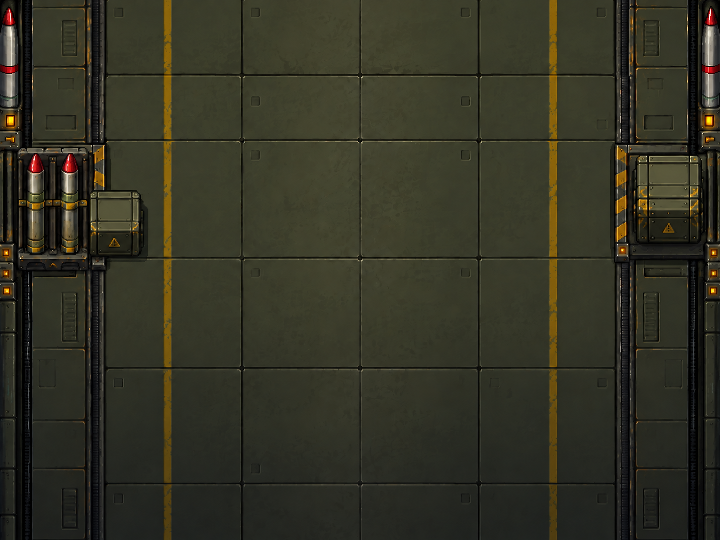
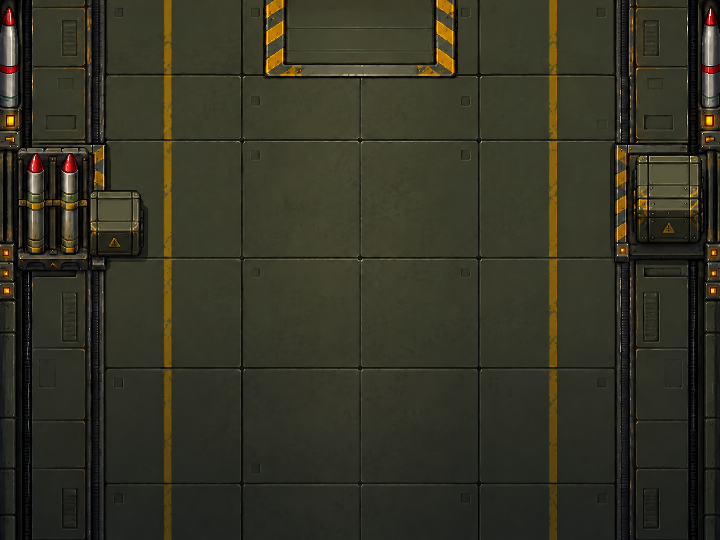
AVSR 수호 방패 하나씩 0.75초 리젠 · 레벨 3~7개 · 필살기 쿨 1분 30초 · 미사일 무대 방 밖 문틀 이음매

Changed region(s): [[0.3667, 0.0, 0.6417, 0.1481], [0.4889, 0.0296, 0.5194, 0.0593]]

diff --git a/Assets/Scripts/Module/InGame/BattleDirector.Cards.cs b/Assets/Scripts/Module/InGame/BattleDirector.Cards.cs
@@ -90,16 +90,11 @@ namespace Game.Module.InGame
         private const float ShieldOrbitRadiusMeters = 1.05f;
         private const float ShieldOrbitDegPerSecond = 210f;
         /// <summary>
-        /// 다 깨지고 나서 **한꺼번에** 돌아오기까지의 시간.
-        ///
-        /// 예전에는 하나씩 따로 8초를 셌다. 그러면 늘 한두 개만 도는 상태가 이어져
-        /// 「방패가 몇 개인지」가 화면에서 안 읽힌다. 셋이 다 깨져야 셋이 함께 온다 —
-        /// 있을 때는 온전하고 없을 때는 아예 없는 편이 판단하기 쉽다.
+        /// 깨진 방패 하나가 제자리로 돌아오기까지의 시간 — 하나씩 따로 센다.
+        /// 예전엔 다 깨진 뒤 6초에 한꺼번에 와서 비어 있는 시간이 너무 길었다
+        /// (PD 2026-10-30 「없어지면 0.5~1초 사이에 다시 리젠해서 늘 돌게」).
         /// </summary>
-        private const float ShieldRespawnSeconds = 6f;
-
-        /// <summary>다 깨진 뒤 함께 돌아오기까지 남은 시간. 0 이면 서 있다.</summary>
-        private float _shieldWaveLeft;
+        private const float ShieldRespawnSeconds = 0.75f;
         private const float ShieldHitRadius = 46f;
         private const float ShieldDamageMul = 0.8f;
 
@@ -118,19 +113,6 @@ namespace Game.Module.InGame
             if (me == null || !me.IsAlive) { HideOrbitShields(); return; }
 
             EnsureShieldViews(want);
-
-            // 다 깨져 있는 동안은 시계만 돈다. 다 차면 셋이 함께 선다.
-            if (_shieldWaveLeft > 0f)
-            {
-                _shieldWaveLeft -= dt;
-                if (_shieldWaveLeft > 0f)
-                {
-                    for (int i = 0; i < _shieldViews.Count; i++)
-                        if (_shieldViews[i] != null) _shieldViews[i].gameObject.SetActive(false);
-                    return;
-                }
-                for (int i = 0; i < _shieldDownLeft.Count; i++) _shieldDownLeft[i] = 0f;
-            }
             _shieldAngle = Mathf.Repeat(_shieldAngle + ShieldOrbitDegPerSecond * dt, 360f);
 
             float r = ShieldOrbitRadiusMeters * _pxPerMeter;
@@ -141,8 +123,13 @@ namespace Game.Module.InGame
                 var view = _shieldViews[i];
                 if (view == null) continue;
 
-                // 깨진 것은 그대로 누워 있는다. 되살아나는 것은 **셋이 다 깨졌을 때**뿐이다.
-                if (_shieldDownLeft[i] > 0f) { view.gameObject.SetActive(false); continue; }
+                // 깨진 것은 제 시계가 다 돌면 그 자리로 돌아온다
+                if (_shieldDownLeft[i] > 0f)
+                {
+                    _shieldDownLeft[i] -= dt;
+                    if (_shieldDownLeft[i] > 0f) { view.gameObject.SetActive(false); continue; }
+                    _shieldDownLeft[i] = 0f;
+                }
                 view.gameObject.SetActive(true);
 
                 float deg = _shieldAngle + 360f * i / want;
@@ -158,7 +145,7 @@ namespace Game.Module.InGame
 
                     HitEnemyWith(e, dmg, null);
                     SpawnImpact(at, "pulse");
-                    _shieldDownLeft[i] = 1f;   // 「깨졌다」 표시. 시계는 아래에서 한꺼번에 센다
+                    _shieldDownLeft[i] = ShieldRespawnSeconds;
                     view.gameObject.SetActive(false);
                     break;
                 }
@@ -173,19 +160,10 @@ namespace Game.Module.InGame
 
                     s.Despawn();
                     SpawnImpact(at, "pulse");
-                    _shieldDownLeft[i] = 1f;
+                    _shieldDownLeft[i] = ShieldRespawnSeconds;
                     view.gameObject.SetActive(false);
                     break;
                 }
-            }
-
-            // 다 깨졌으면 그때부터 함께 돌아올 시계를 켠다.
-            if (_shieldWaveLeft <= 0f)
-            {
-                bool allDown = true;
-                for (int i = 0; i < want && allDown; i++)
-                    if (_shieldDownLeft[i] <= 0f) allDown = false;
-                if (allDown) _shieldWaveLeft = ShieldRespawnSeconds;
             }
         }
 
@@ -352,7 +330,6 @@ namespace Game.Module.InGame
             ClearBolts();
             _guardCooldownLeft = 0f;
             _shieldAngle = 0f;
-            _shieldWaveLeft = 0f;
         }
 
         private void TickCards(float dt)

diff --git a/Assets/Scripts/Character/GameConfig.cs b/Assets/Scripts/Character/GameConfig.cs
@@ -437,7 +437,7 @@ namespace Game.Character
         [SerializeField] private float _activeSkillCooldownSeconds = 14f;
         [SerializeField] private int _activeSkillDamage = 140;
         [Tooltip("필살기를 쓰고 같은 호스트로 다시 쓰기까지(초). 빙의하면 이와 상관없이 다시 찬다(PD 2026-10-28 「한 번만 쓰니 재미가 떨어진다 · 일단 5분」).")]
-        [SerializeField] private float _ultCooldownSeconds = 180f;
+        [SerializeField] private float _ultCooldownSeconds = 90f;   // 10-30 PD 「일단 1분 30초로」(5분 → 3분 → 1분 30초)
         [Tooltip("「필살기 쿨 감소」 카드(c013)를 여러 번 골라도 필살기 쿨이 이 밑으로는 안 내려간다(초).")]
         [SerializeField] private float _ultCooldownMinSeconds = 60f;
 

diff --git a/Assets/Scripts/Editor/CardImporter.cs b/Assets/Scripts/Editor/CardImporter.cs
@@ -63,7 +63,7 @@ namespace Game.EditorTools
                 "얻는 경험치가 늘어난다.", live: false),
 
             new("c003", "수호 방패", BuffKind.OrbitShield, CardRarity.Rare,
-                "SURVIVAL", new[] { 3, 3, 4, 4, 5 },
+                "SURVIVAL", new[] { 3, 4, 5, 6, 7 },   // 레벨마다 하나씩 는다 — 3 · 3 · 4 · 4 · 5 는 2레벨에 그대로라 「올려도 3개」였다(PD 2026-10-30)
                 "방패가 주위를 돌며 공격을 막는다."),
 
             new("c004", "처형", BuffKind.Assassinate, CardRarity.Legendary,
